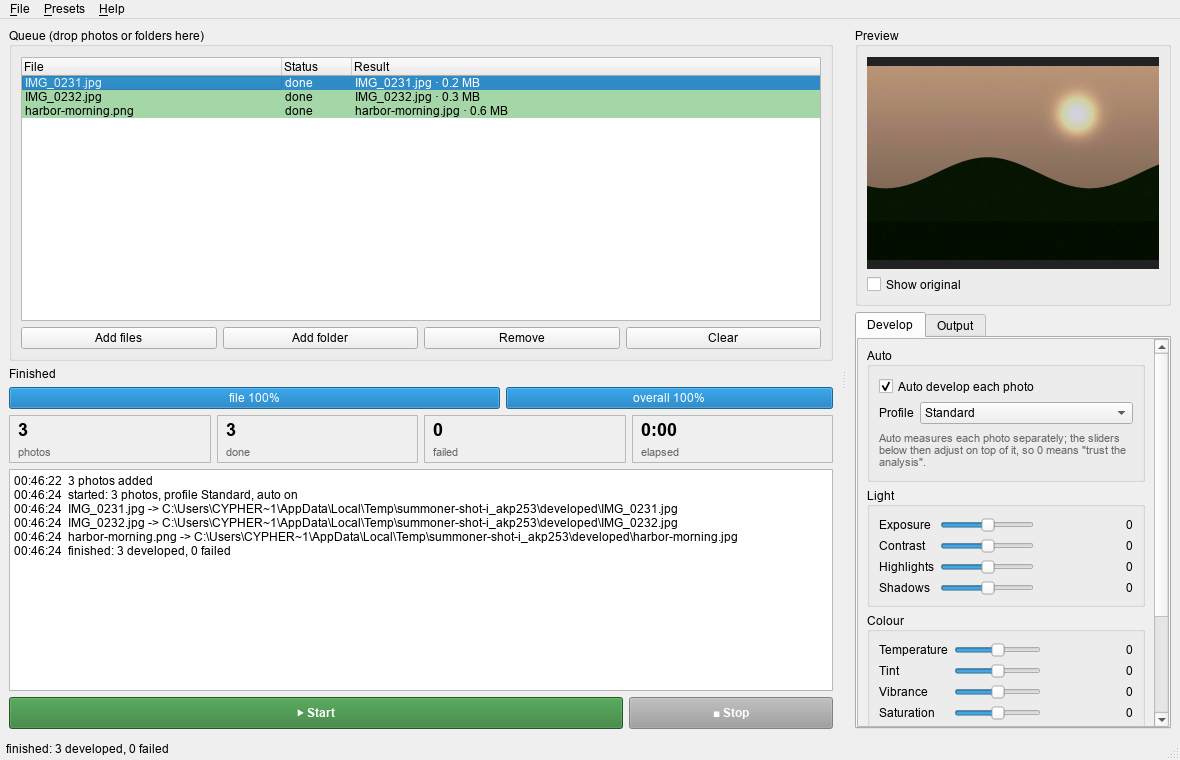
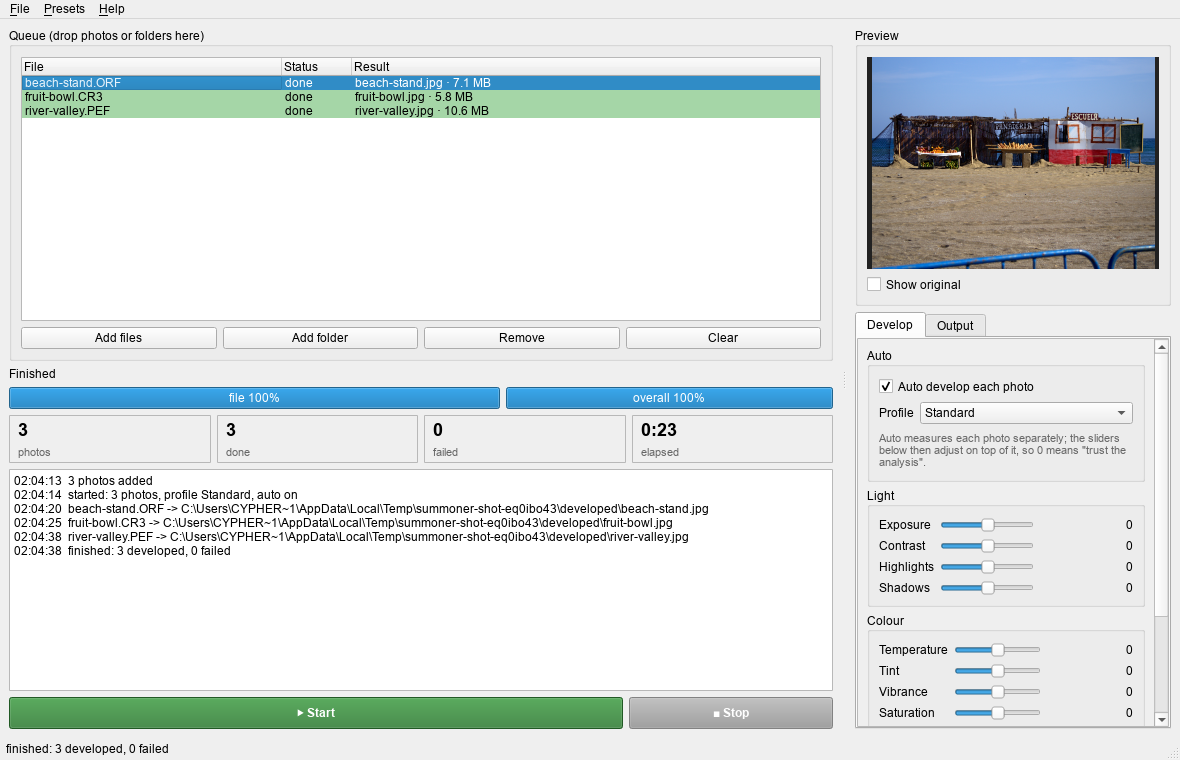
1.2: local tone mapping - backlit subjects lifted, skies kept blue
- Validated against a full card: 263 real raws, zero failures, scored frame by frame
  against the camera's own JPEGs; plus raw samples from nine other camera makers.
- Local tone mapping replaces the global-only lift: dark subjects rise toward the midtone
  while a bright sky's gain stays at 1.
- Exposure cap targets p95 at 0.80 so a blue sky is never pushed to white; night detection
  gated on the bright end so backlit is lifted while night stays night; shade fraction
  drives shadow lift so a small subject against a big sky is still rescued.
- thumb.png is a real run on real, freely-licensed camera raws (ORF, CR3, PEF).

Claude-Session: https://claude.ai/code/session_01VhehvmpXtNz9pL2pGqJLUp

diff --git a/develop.py b/develop.py
@@ -121,22 +121,31 @@ def analyze(img: np.ndarray, raw: bool = False) -> dict:
     # pixels under 0.06 luminance; normal frames with dark clothing or shadow stay at or below 0.15.
     dark_frac = float((lum < 0.06).mean())
     low_key = float(np.clip((dark_frac - 0.18) / 0.25, 0.0, 1.0))
+    # A frame with a genuinely bright region is not a night scene, however dark its subject -
+    # it is backlit (a face against a cloudy sky) and needs the lift low_key would suppress.
+    p95 = float(np.percentile(lum, 95.0))
+    low_key *= float(np.clip((0.80 - p95) / 0.25, 0.0, 1.0))
 
     # Exposure: push the midtone median toward 0.40 - but never so far that the bright end (p95)
     # would blow out, and much more gently on low-key scenes. The measurement is in gamma-encoded
     # values while render() applies exposure in linear light, where a gamma-space ratio r needs
     # 2.2*log2(r) EV - without that factor every correction lands ~2.2x weaker than intended
     # (the chronic "dimmer than the camera JPEG" bug, 2026-09-07).
+    # The cap targets p95 at 0.80, not brighter: a blue sky pushed to 0.9+ luminance is a white
+    # sky. High-DR scenes get their lift locally through the shadows (the deficit) instead.
     median = float(np.median(lum))
-    p95 = float(np.percentile(lum, 95.0))
     ev_want = 2.2 * math.log2(0.40 / max(median, 1e-4)) * 0.9
     ev, deficit = ev_want, 0.0
     if ev > 0.0:
-        ev = min(ev, max(2.2 * math.log2(0.92 / max(p95, 1e-4)), 0.0))
+        ev = min(ev, max(2.2 * math.log2(0.80 / max(p95, 1e-4)), 0.0))
         # what the cap refused is the backlit signal: a shaded subject against a bright
         # background (group under a tree, DSC01106) cannot be lifted globally without blowing
         # the background - the remaining lift is assigned to the shadows instead
         deficit = ev_want - ev
+    else:
+        # a bright median is usually deliberate (sky-dominated frames); darkening it globally
+        # crushes whatever sits in shadow, so pull down far more gently
+        ev *= 0.4
     ev *= 1.0 - 0.7 * low_key
     ev = float(np.clip(ev, -3.0, 3.0))
 
@@ -146,7 +155,7 @@ def analyze(img: np.ndarray, raw: bool = False) -> dict:
     # stretch re-crushes lifted shade and blows what the exposure cap protected. The black cap
     # keeps a bimodal shade-plus-sun frame from having its whole shade half counted as "black".
     gamma_gain = 2.0 ** (ev / 2.2)
-    black = min(float(np.percentile(lum, 0.5)) * gamma_gain * 0.8, 0.08)
+    black = min(float(np.percentile(lum, 0.5)) * gamma_gain * 0.8, 0.04)
     white = 1.0 - (1.0 - min(float(np.percentile(lum, 99.5)) * gamma_gain, 1.0)) * 0.7
     white = max(white, black + 0.05)
 
@@ -155,7 +164,12 @@ def analyze(img: np.ndarray, raw: bool = False) -> dict:
     blown = float((lum > 0.97).mean())
     crushed = float((lum < 0.03).mean())
     highlights = -min(60.0, blown * 500.0)
-    shadows = min(55.0, crushed * 300.0 + deficit * 30.0) * (1.0 - 0.9 * low_key)
+    # Shade drives the lift too: a backlit minority subject (face against a cloudy sky) leaves
+    # the median healthy and the deficit small, yet sits in shadow. Measured after exposure.
+    shade_frac = float((lum * gamma_gain < 0.25).mean())
+    shade_boost = 55.0 * float(np.clip((shade_frac - 0.12) / 0.30, 0.0, 1.0))
+    shadows = (min(60.0, crushed * 300.0 + deficit * 35.0 + shade_boost)
+               * (1.0 - 0.9 * low_key))
 
     # A raw decode has no tone curve or colour rendering: give it the punch and colour the
     # camera's JPEG engine applies, scaled back on low-key scenes.
@@ -216,15 +230,16 @@ def render(img: np.ndarray, settings: dict, analysis: dict = None) -> np.ndarray
             mask = np.clip((soft - 0.5) * 2.0, 0.0, 1.0) ** 1.5
             img += (highlights / 100.0) * 0.35 * mask[..., None] * img
         if shadows:
-            # gamma-style lift on a blurred-luminance mask: multiplicative, so no additive fog
-            # (which washed real photos milky), with true blacks anchored by a smoothstep weight
-            # so night skies and silhouettes keep their depth (2026-09-07)
-            mask = np.clip(1.0 - soft / 0.6, 0.0, 1.0) ** 1.2
-            exponent = (1.0 / (1.0 + (shadows / 100.0) * 1.5 * mask))[..., None]
-            lifted = np.power(np.clip(img, 1e-6, 1.0), exponent)
+            # local tone mapping: each region gets a gain from its blurred luminance, so a dark
+            # subject rises toward the midtone while a bright sky's gain stays at 1. Multiplicative
+            # (no additive fog), and true blacks are anchored by a smoothstep weight so night skies
+            # and silhouettes keep their depth (2026-09-07, polo-field and backlit-face frames).
+            strength = shadows / 100.0
+            gain = ((0.45 + 1e-4) / (soft + 1e-4)) ** (strength * 1.3)
+            gain = np.clip(gain, 1.0, 1.0 + strength * 1.8)[..., None]
             weight = np.clip(img / 0.15, 0.0, 1.0)
             weight = weight * weight * (3.0 - 2.0 * weight)
-            img += (lifted - img) * weight
+            img += (img * gain - img) * weight
         img = np.clip(img, 0.0, 1.0)
 
     # --- contrast: blend toward a smoothstep S-curve (user slider + the analysis baseline)

diff --git a/tools/screenshot.py b/tools/screenshot.py
@@ -1,8 +1,10 @@
 #!/usr/bin/env python3
 """
-Take thumb.png headlessly: QT_QPA_PLATFORM=offscreen python tools/screenshot.py
-Runs the app on REAL sample inputs (generated, invented scenes - no user material), waits for the
-queue to finish, then grabs the window. Never fake the state by hand-editing labels.
+Take thumb.png headlessly: QT_QPA_PLATFORM=offscreen python tools/screenshot.py [photo-folder]
+Runs the app on REAL sample inputs, waits for the queue to finish, then grabs the window.
+Pass a folder of real, freely-licensed photos (CC0 raws) for the screenshot that ships in the
+README - never anyone's personal material (STANDARD.md 11) and never a faked state. Without an
+argument it falls back to the generated scenes used by CI.
 """
 import os
 import sys
@@ -16,11 +18,17 @@ from PySide6.QtCore import QTimer
 from PySide6.QtWidgets import QApplication
 
 from config import DEFAULT_SETTINGS
+import develop
 import main as app_main
 from tools.make_samples import write_samples
 
 work = tempfile.mkdtemp(prefix="summoner-shot-")
-samples = write_samples(os.path.join(work, "shoot"))
+if len(sys.argv) > 1:
+    folder = sys.argv[1]
+    samples = [os.path.join(folder, f) for f in sorted(os.listdir(folder))
+               if develop.is_photo(os.path.join(folder, f))]
+else:
+    samples = write_samples(os.path.join(work, "shoot"))
 
 app = QApplication(sys.argv)
 app.setStyle("Fusion")

diff --git a/tests/test_develop.py b/tests/test_develop.py
@@ -102,6 +102,18 @@ def test_auto_lifts_backlit_shade_without_blowing_background():
     assert bright < 0.98                                         # background not blown
 
 
+def test_auto_lifts_backlit_minority_subject():
+    """DSC01114 case: a small dark subject against a dominant bright sky. The median looks healthy,
+    so exposure and its deficit do nothing - the shade fraction itself must drive the lift."""
+    img = np.full((200, 320, 3), 0.62, np.float32)               # dominant bright sky
+    img[120:, 60:260] = 0.16                                     # the face in shadow
+    analysis = develop.analyze(img)
+    out = develop.render(img, {**DEFAULT_SETTINGS, "sharpen": 0}, analysis)
+    subject = float(np.median(develop.luminance(out[140:, 80:240])))
+    assert subject > 0.20                                        # clearly lifted from 0.16
+    assert float((develop.luminance(out) > 0.97).mean()) < 0.02  # sky not blown
+
+
 def test_auto_wb_skips_scene_without_neutrals():
     """Grey-world on a green-dominated frame would go magenta; without neutral pixels, no WB."""
     img = np.tile(np.asarray([0.16, 0.40, 0.12], np.float32), (200, 320, 1))

diff --git a/config.py b/config.py
@@ -3,7 +3,7 @@ summoner - configuration and constants (the only place APP_NAME / APP_VERSION li
 """
 
 APP_NAME = "summoner"       # lowercase, hyphenated; also the binary / archive name
-APP_VERSION = "1.1"         # bump here, then tag v<APP_VERSION>
+APP_VERSION = "1.2"         # bump here, then tag v<APP_VERSION>
 WINDOW_MIN_WIDTH = 820
 WINDOW_MIN_HEIGHT = 560
 

diff --git a/README.md b/README.md
@@ -82,6 +82,21 @@ reputation with Microsoft.
 The GitHub workflow builds all three platforms on every tag and attaches them to the release; the Linux build runs a
 headless self-test (`SUMMONER_SELFTEST=<folder of photos>`) on the frozen binary against generated sample scenes.
 
+## Changes in 1.2
+
+Auto develop validated against an entire card: 263 real raws developed with zero failures and
+scored frame by frame against the camera's own JPEGs, plus raw samples from nine other camera
+makers (Canon CR2/CR3, Nikon NEF, Fujifilm RAF, Olympus ORF, Panasonic RW2, Pentax PEF, Sony ARW).
+
+- Local tone mapping replaces the global-only lift: a dark subject rises toward the midtone while
+  a bright sky's gain stays at 1 - backlit faces and groups in shade come out lifted, not murky.
+- The exposure cap now targets the bright end at 0.80: a blue sky is no longer pushed to white.
+- Night detection is gated on the bright end, so a shaded subject against a bright sky is treated
+  as backlit (and lifted), never as a night scene (and left dark).
+- A dominant bright sky no longer drags the whole frame darker; the shade fraction itself now
+  drives shadow lift, so a small subject against a big sky is still rescued.
+- The README screenshot is a real run on real, freely-licensed camera raws.
+
 ## Changes in 1.1
 
 Auto develop rebuilt against real raws, benchmarked frame by frame against the camera's own JPEG
